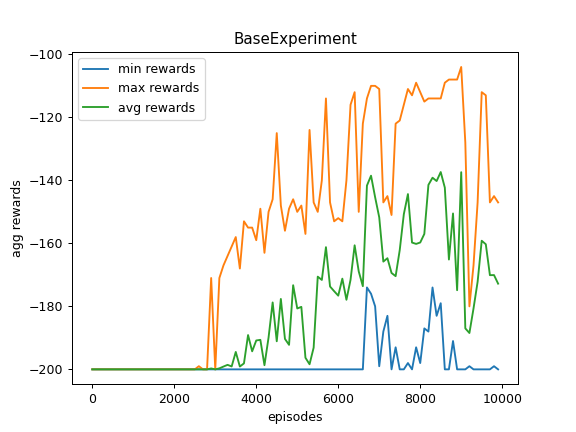
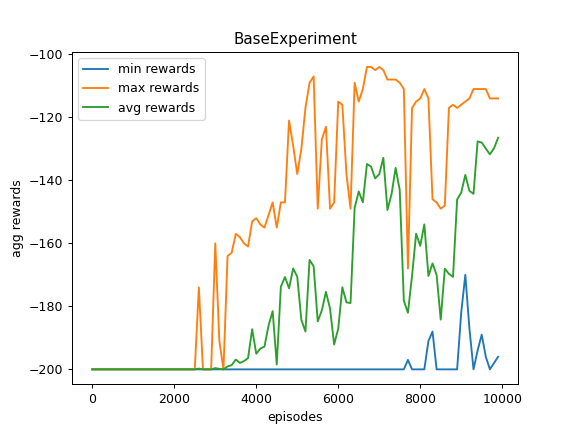
Refactored expt module to make the strategy to choose action - overridable by base classes.

Changed region(s): [[0.3125, 0.1505, 0.875, 0.8727]]

diff --git a/MountainCar/base/expt.py b/MountainCar/base/expt.py
@@ -76,6 +76,19 @@ class BaseExperiment(object):
         discrete_state = self.get_discrete_state(self.env.reset())
         return discrete_state
 
+    def choose_action(self, discrete_state):
+        # Scheduled epsilon-greedy strategy
+        if np.random.random() > self.epsilon:
+            # [EXPLOIT]
+            # Choose the best action for
+            #   this particular discrete state
+            action = np.argmax(self.q_table[discrete_state])
+        else:
+            # [EXPLORE]
+            # Choose a random action
+            action = np.random.randint(0, self.env.action_space.n)
+        return action
+
     def play_episode(self, episode):
         discrete_state = self.init_episode_state()
 
@@ -96,19 +109,8 @@ class BaseExperiment(object):
         # Loop over all steps of this episode
         while not done:
 
-            # A. Scheduled epsilon-greedy strategy
-            if np.random.random() > self.epsilon:
-                # [EXPLOIT]
-                # Choose the best action for
-                #   this particular discrete state
-                action = np.argmax(self.q_table[discrete_state])
-            else:
-                # [EXPLORE]
-                # Choose a random action
-                action = np.random.randint(0, self.env.action_space.n)
-
-            # # B. Always greedy strategy
-            # action = np.argmax(q_table[discrete_state])
+            # Choose an action
+            action = self.choose_action(discrete_state)
 
             # Step the env to get:
             #   a new state, a reward, an episode done status, etc.

diff --git a/MountainCar/variants/AlwaysGreedyStrategyExpt.py b/MountainCar/variants/AlwaysGreedyStrategyExpt.py
@@ -1,0 +1,17 @@
+from MountainCar.base.expt import BaseExperiment
+import numpy as np
+
+
+class AlwaysGreedyStrategyExpt(BaseExperiment):
+    # Settings for Q-Learning
+    EPISODES = 10_000
+
+    def choose_action(self, discrete_state):
+        # Always greedy strategy
+        action = np.argmax(self.q_table[discrete_state])
+        return action
+
+
+if __name__ == '__main__':
+    expt = AlwaysGreedyStrategyExpt()
+    expt.run()

diff --git a/MountainCar/variants/README.md b/MountainCar/variants/README.md
@@ -21,3 +21,6 @@ MedDiscountingExpt
 
 CoarseVelocityStateExpt  
 ![CoarseVelocityStateExpt](charts/stats_CoarseVelocityStateExpt.png)
+
+AlwaysGreedyStrategyExpt  
+![AlwaysGreedyStrategyExpt](charts/stats_AlwaysGreedyStrategyExpt.png)
